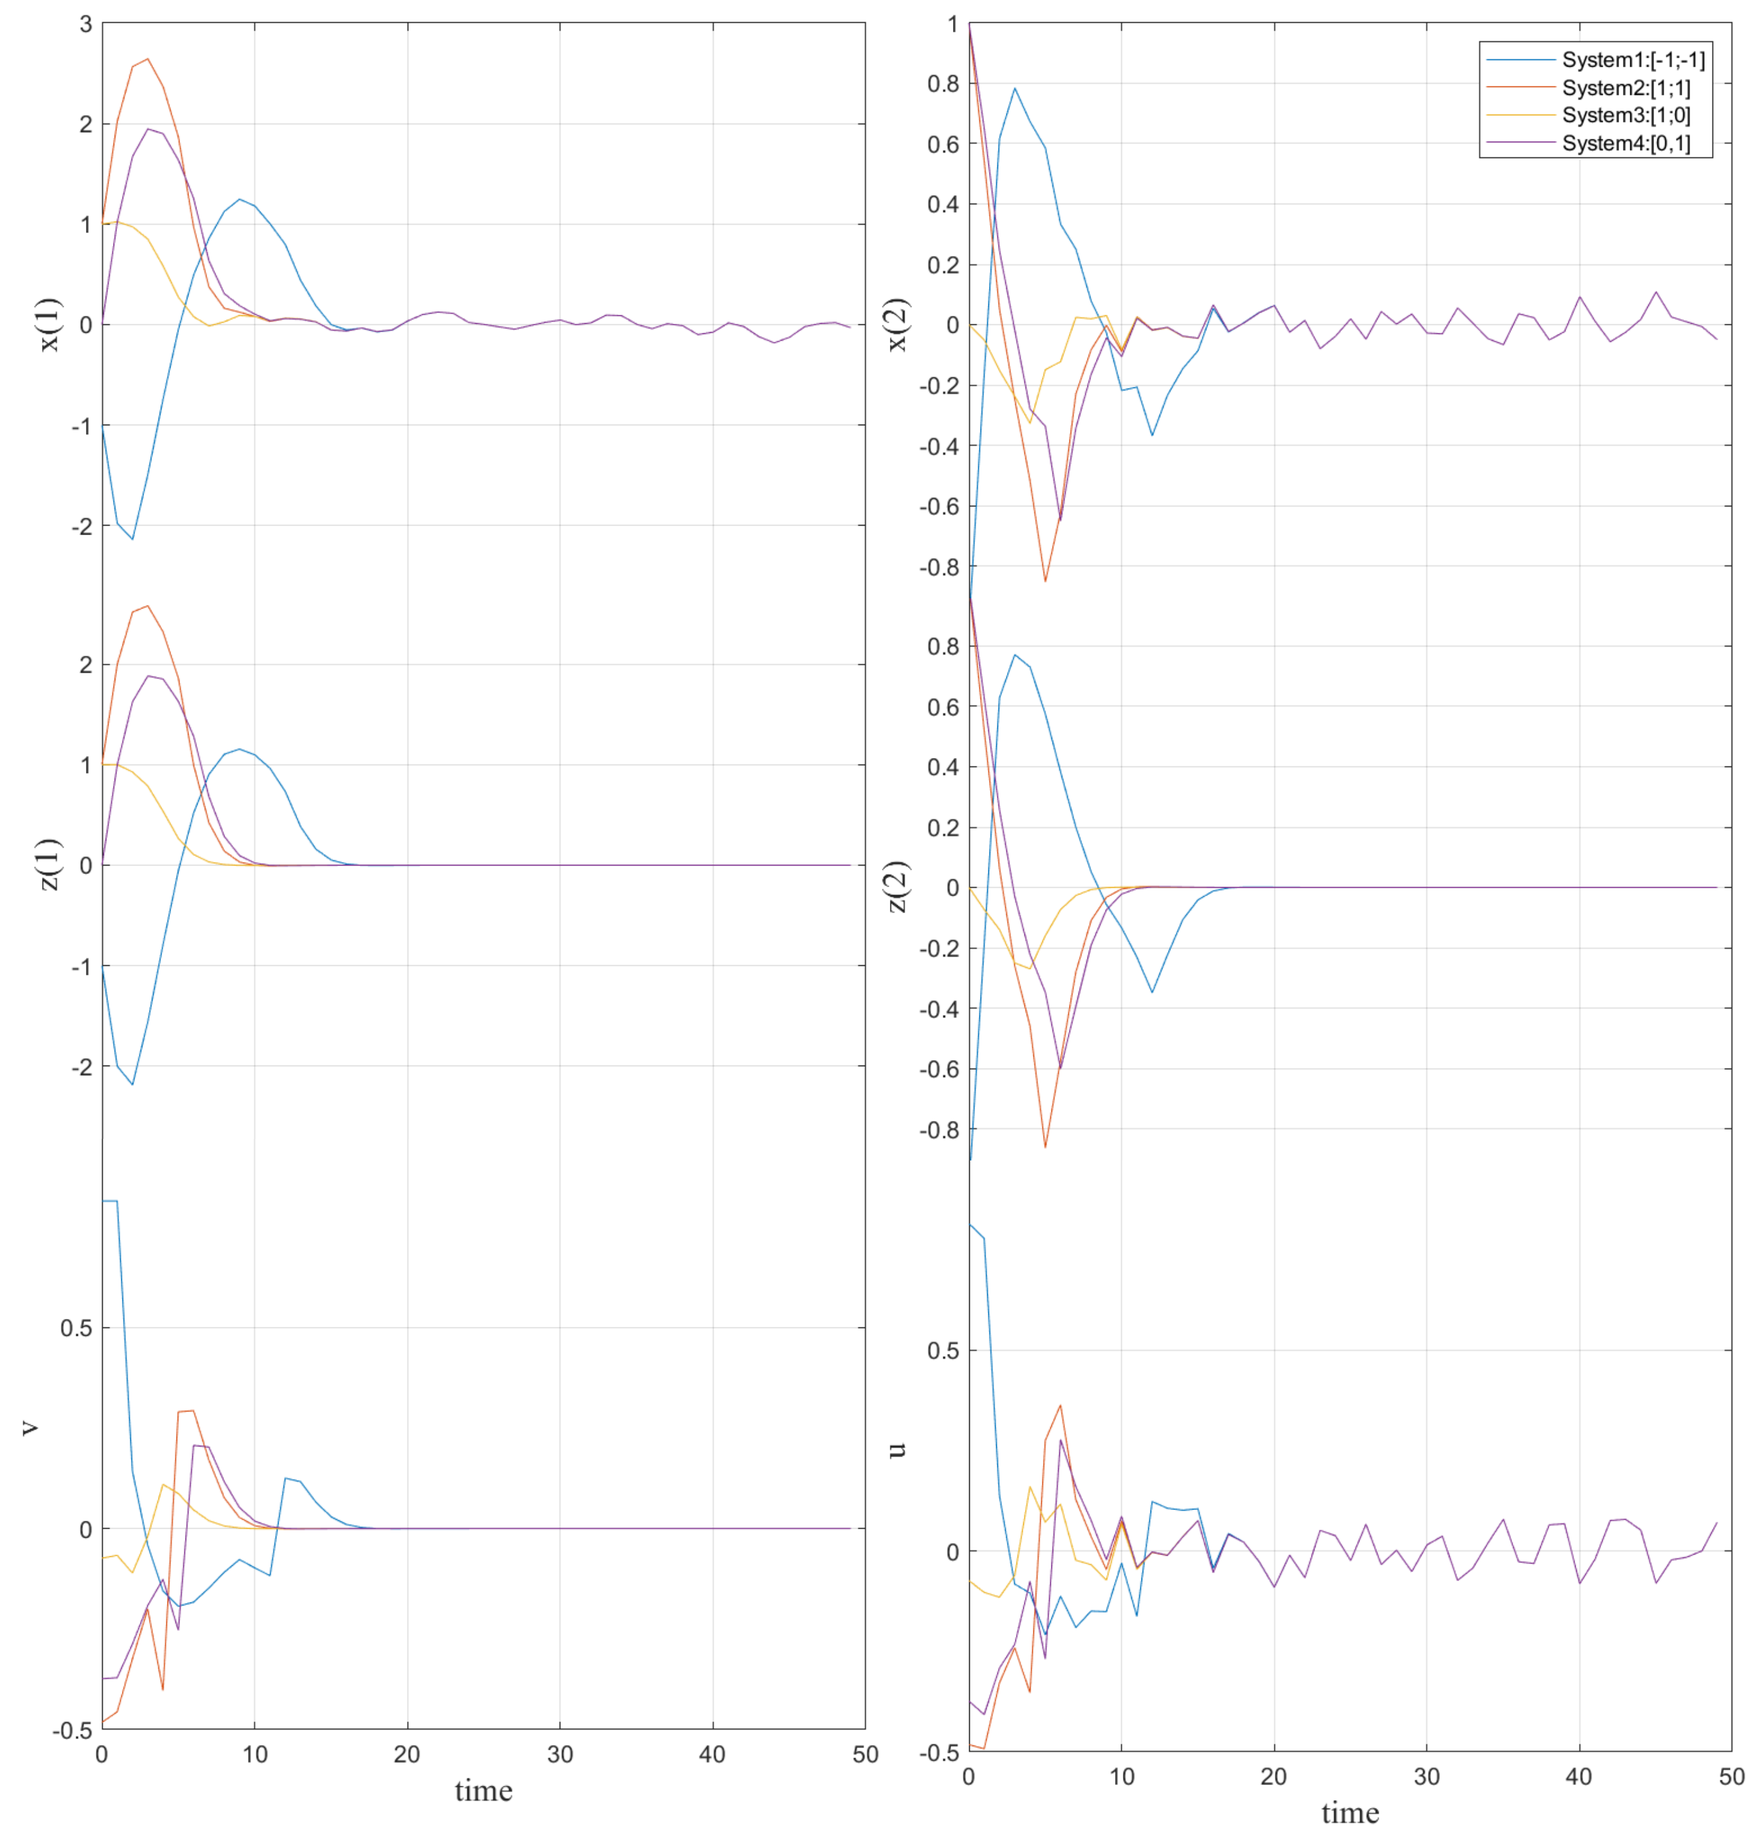
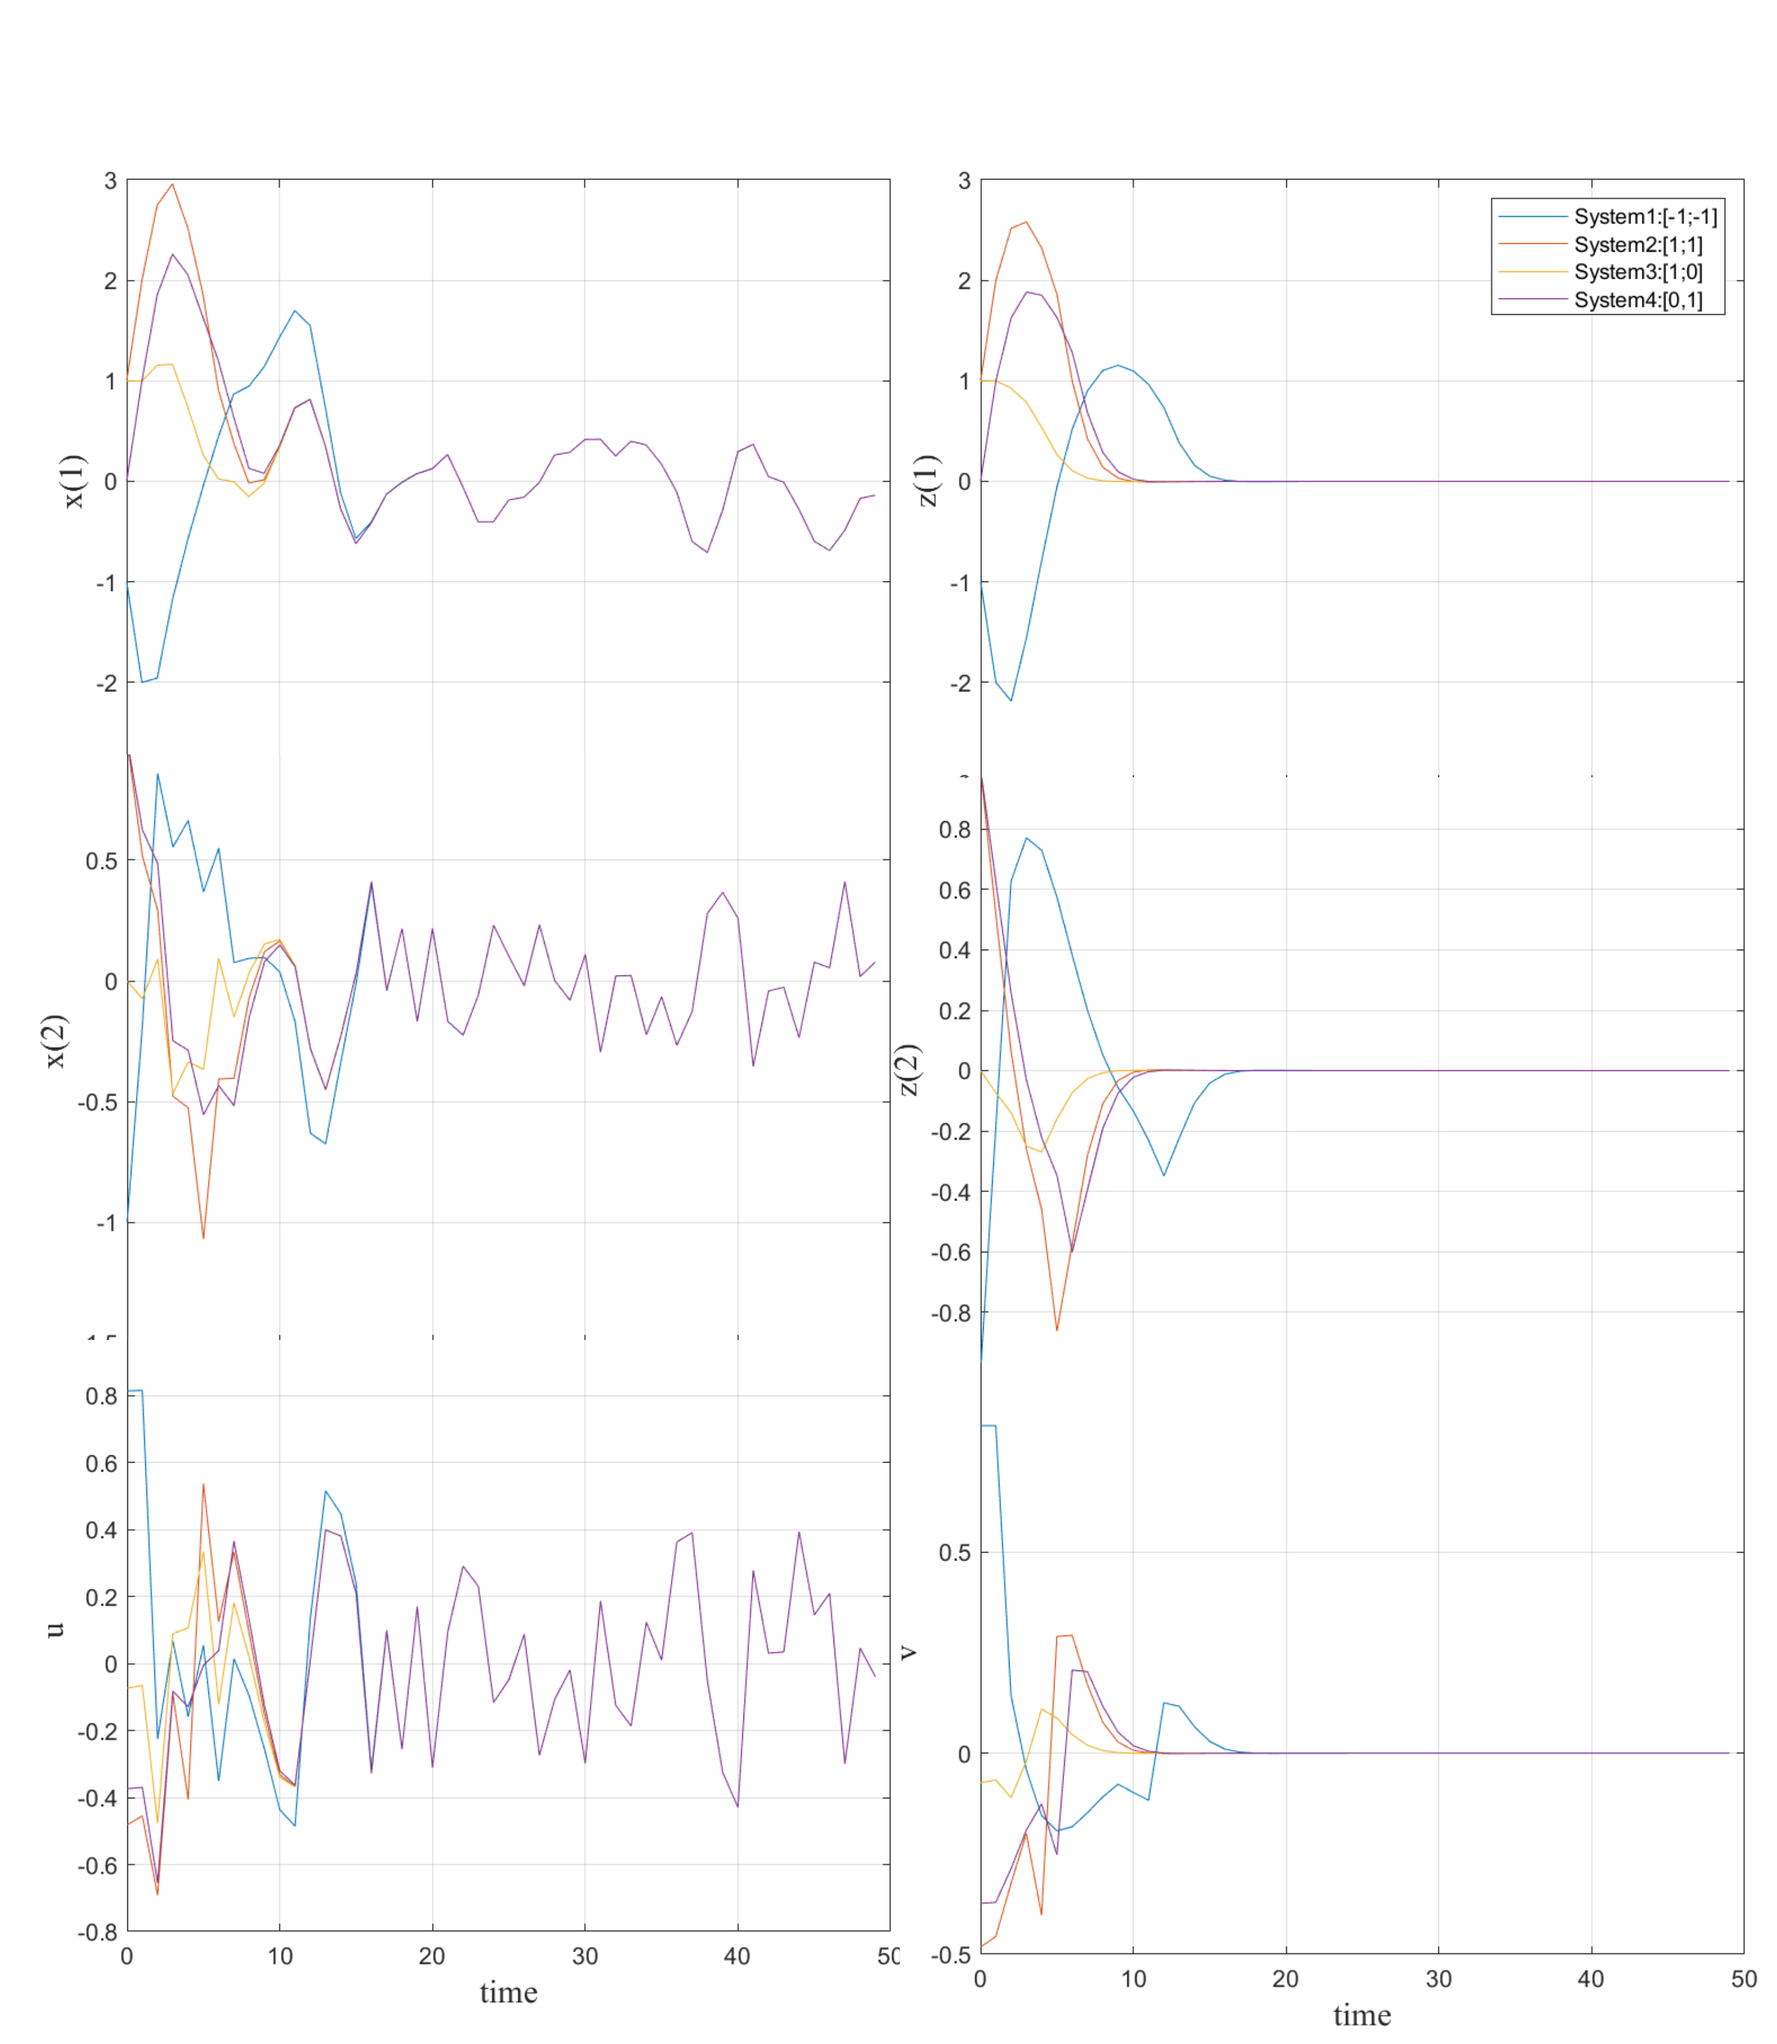
new

diff --git a/README.md b/README.md
@@ -51,4 +51,7 @@ So long as u can't battle the dynamics of the system, as approximated by the der
 ![1](/pics/controllyapunov.png)
 
 ## Robust MPC
+Q=R=1, Nc=5
 ![1](/mpc.png)
+Q=R=1, Nc=10
+![1](/mpc2.png)
